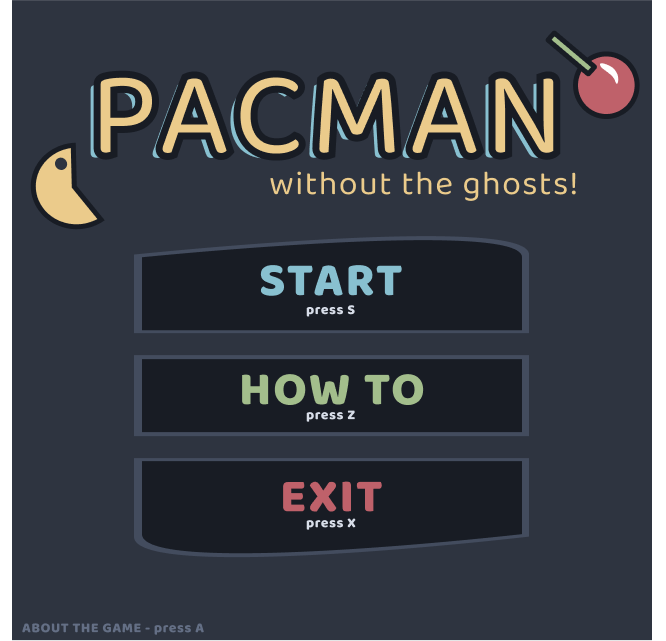
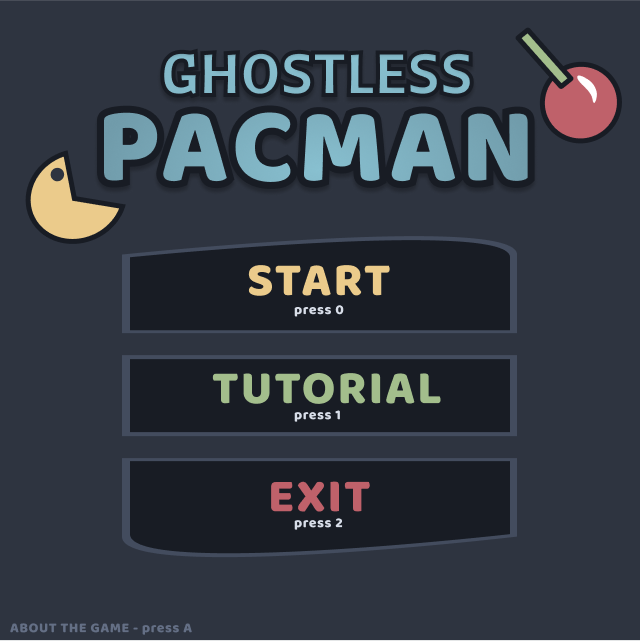
update homescreen image and dimensions

diff --git a/src/assets.c b/src/assets.c
@@ -45,7 +45,7 @@ Assets *load_all_assets(SDL_Renderer *renderer) {
     }
 
 
-    SDL_Rect screen_rect = {0, 0, 640, 640};
+    SDL_Rect screen_rect = {0, 0, 640, 641};
     SDL_Rect prompt_rect = {108, 104, 423, 430};
 
     // Load screen displays
